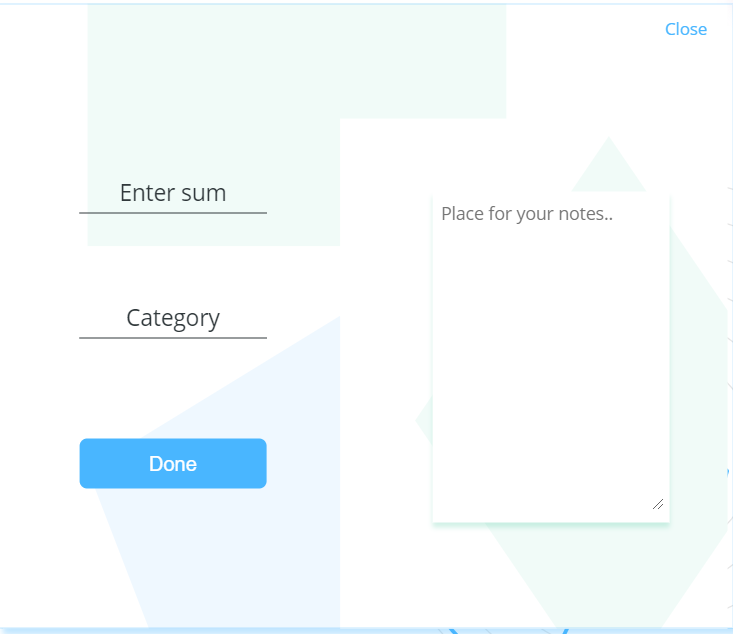
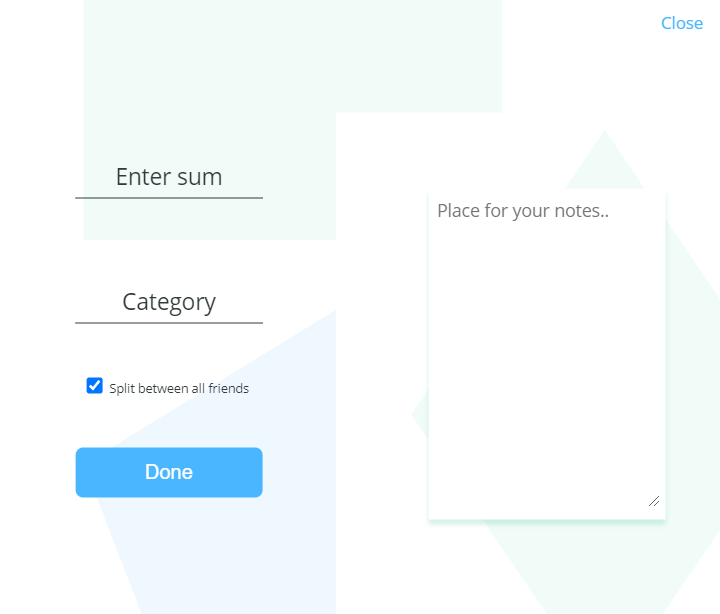
add split choice to the expense form

diff --git a/dividexp/templates/trip.html b/dividexp/templates/trip.html
@@ -132,6 +132,10 @@
             {{ e_form.category }}
             {{ e_form.category.label }}
           </div>
+          <div class="checkbox">
+            {{ e_form.split(class='checkmark') }}
+            {{ e_form.split.label }}
+          </div>
           {{ e_form.submit(class='blue-submit-button') }}
         </div>
         <div class="notes-container">

diff --git a/dividexp/static/trip.css b/dividexp/static/trip.css
@@ -648,6 +648,17 @@ progress[value]::-webkit-progress-value {
   background: #49B6FF;
 }
 
+.checkbox {
+  font-size: 10px;
+  margin-left: 50px;
+}
+
+.checkmark {
+  color: red;
+  background: pink;
+}
+
+
 /*                  pie chart                   */
 canvas {
   position: absolute;

diff --git a/dividexp/manager.py b/dividexp/manager.py
@@ -98,12 +98,6 @@ class TripManager:
         self.update_trip_date()
         db.session.commit()
 
-    def recount_all_users_budget(self):
-
-        self.collect_users()
-        for user in self.users_ids:
-            self.recount_user_budget(user, self.users_ids.get(user))
-
     def get_credits_info(self, column):
         credits_info = {}
         users_list = list(self.users_ids.keys())
@@ -150,7 +144,7 @@ class TripManager:
                 'timestamp': each_expense.timestamp.strftime('%I:%M %p'),
             })
 
-    def add_expense(self, username, category, sum, notes):
+    def add_joint_expense(self, username, category, sum, notes):
         # commit changes to the database
         user = User.query.filter_by(username=username).first()
         team_member = User.query.join(User.teams).filter(
@@ -171,7 +165,33 @@ class TripManager:
         self.expenses.append(new_expense)
 
         self.edit_expense_table(self.users_ids.get(user.id), sum)
-        self.recount_all_users_budget()
+        self.collect_users()
+
+    def add_expense(self, username, category, sum, notes):
+        # commit changes to the database
+        user = User.query.filter_by(username=username).first()
+        team_member = User.query.join(User.teams).filter(
+            User.username == username, Team.trip_id == self.id).first()
+        expense = Expense(trip_id=self.id, user_id=user.id, team_member_id=team_member.id,
+                          sum=sum, category=category, notes=notes)
+        db.session.add(expense)
+        trip = Trip.query.get(self.id)
+        trip.total_spendings = trip.total_spendings + expense.sum
+        self.update_trip_date()
+        db.session.commit()
+        new_expense = {
+            'category': expense.category,
+            'sum': expense.sum,
+            'name': user.name,
+            'timestamp': expense.timestamp.strftime('%I:%M %p'),
+        }
+        self.expenses.append(new_expense)
+
+        # get user column, row in expense table
+        row = self.users_ids.get(user.id)
+        self.expense_table[row][row] = self.expense_table[row][row] + sum
+
+        self.collect_users()
 
     def add_team_member(self, username, budget):
 

diff --git a/dividexp/routes.py b/dividexp/routes.py
@@ -14,7 +14,8 @@ def home():
     form = CreateTripForm()
     if form.validate_on_submit():
         if current_user.is_authenticated:
-            new_trip = Trip(route=form.source.data + ' - ' + form.destination.data)
+            new_trip = Trip(route=form.source.data +
+                            ' - ' + form.destination.data)
             db.session.add(new_trip)
             db.session.commit()
             print(form.budget.data)
@@ -69,7 +70,7 @@ def trip(trip_id):
         manage.collect_expenses()
         manage.collect_users()
 
-    expense_form = AddNewExpenseForm()
+    expense_form = AddNewExpenseForm(split=True)
     team_member_form = CreateTeamMemberForm()
 
     if team_member_form.validate_on_submit():
@@ -86,8 +87,10 @@ def trip(trip_id):
             flash('The user is already in your team')
         return redirect(url_for('trip', trip_id=trip.id))
     elif expense_form.validate_on_submit():
-        manage.add_expense(
-            expense_form.username.data, expense_form.category.data, expense_form.sum.data, expense_form.notes.data)
+        if expense_form.split.data is True:
+            manage.add_joint_expense(expense_form.username.data, expense_form.category.data, expense_form.sum.data, expense_form.notes.data)
+        else:
+            manage.add_expense(expense_form.username.data, expense_form.category.data, expense_form.sum.data, expense_form.notes.data)
         return redirect(url_for('trip', trip_id=trip.id))
 
     labels, values = manage.get_chart_items()

diff --git a/dividexp/forms.py b/dividexp/forms.py
@@ -1,5 +1,5 @@
 from flask_wtf import FlaskForm
-from wtforms import StringField, SubmitField, PasswordField, BooleanField, IntegerField, FloatField, TextAreaField, ValidationError, HiddenField, SelectField
+from wtforms import StringField, SubmitField, PasswordField, BooleanField, IntegerField, FloatField, TextAreaField, ValidationError, HiddenField
 from wtforms.fields.html5 import EmailField
 from wtforms.validators import DataRequired, Length, NumberRange, Email
 from dividexp.models import User
@@ -58,4 +58,5 @@ class AddNewExpenseForm(FlaskForm):
     category = StringField('Category', validators=[
                             DataRequired(), Length(min=2, max=50)])
     notes = TextAreaField('Place for your notes..')
+    split = BooleanField('Split between all friends')
     submit = SubmitField('Done')

diff --git a/docs/Software Requirements Specifications.md b/docs/Software Requirements Specifications.md
@@ -34,8 +34,10 @@
 
 -   Внесение информации о расходах.
 
+    По умолчанию, все расходы, внесенные пользователем, делятся поровну между всеми участниками команды, но можно снять соответствующую галочку в чекбоксе и расход будет учтен только для одного пользователя.
+
     ![img](https://github.com/veronika-suprunovich/dividexp/blob/main/docs/img/add_expense_form.PNG)
-    
+
 -   Добавление участников в поездку.
 
     Для добавления нового участника нужно ввести его имя пользователя, в команду могут быть добавлены только пользователи, зарегистрированные в приложении.
@@ -58,5 +60,5 @@
 ### **Атрибуты качества**
 
 -   Простой и удобный интерфейс взаимодействия (соответсвует мак-апам).
--   Грамотная обработка ошибок.
+-   Обработка ошибок.
 -   Защита данных пользователя (соответсвует функциональным требованиям).
